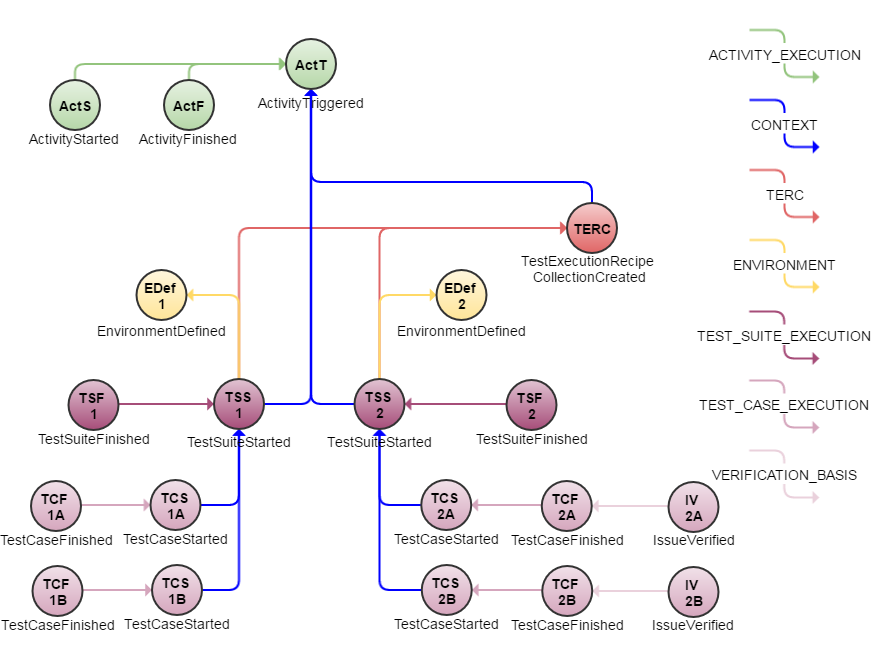
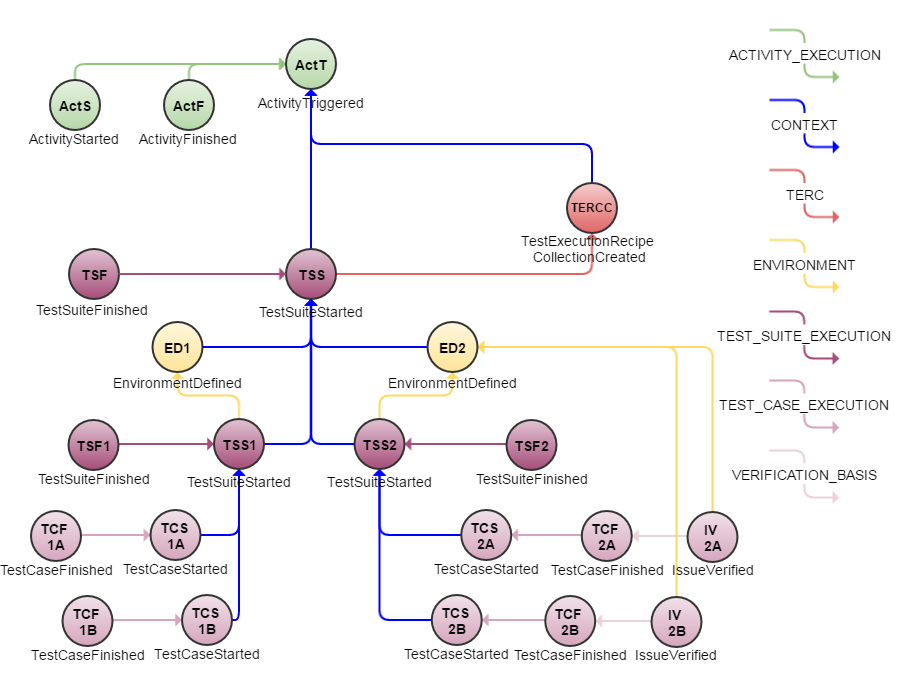
Updated after discussions with Daniel. Added a sequence diagram.

diff --git a/usage-examples/test-execution.md b/usage-examples/test-execution.md
@@ -15,32 +15,46 @@ To understand the example provided here, it is important to explain a few concep
 ### ActT, ActS, ActF
 [EiffelActivityTriggeredEvent](../eiffel-vocabulary/EiffelActivityTriggeredEvent.md), [EiffelActivityStartedEvent](../eiffel-vocabulary/EiffelActivityStartedEvent.md) and [EiffelActivityFinishedEvent](../eiffel-vocabulary/EiffelActivityFinishedEvent.md) are the top level events describing the status of the complete activity execution.
 
-### TERC
+### TERCC
 The [EiffelTestExecutionRecipeCollectionCreatedEvent](../eiffel-vocabulary/EiffelTestExecutionRecipeCollectionCreatedEvent.md) event is sent to provide information about the contents of a test activity.
 
-### EDef1, EDef2
-For each test environment set up and/or created an [EiffelEnvironmentDefinedEvents](../eiffel-vocabulary/EiffelEnvironmentDefinedEvent.md) event SHALL be sent. The environments could be static and thereby reused between a lot of test activities, or they could be created in runtime for every test activity. The latter is the typical case when testing in a cloud environment.
+### TSS
+The [EiffelTestSuiteStartedEvent](../eiffel-vocabulary/EiffelTestSuiteStartedEvent.md) signal that the execution of a set of test cases have started. The test cases defined as recipes in the [EiffelTestExecutionRecipeCollectionCreatedEvent](../eiffel-vocabulary/EiffelTestExecutionRecipeCollectionCreatedEvent.md) can be grouped to an arbitrary number of test suites. There should anyway always be one main test suite encapsulating all test cases in the activity.
+
+### ED1, ED2
+Here we assume the test orchestrator has decided to split the complete set of test cases in two sub test suites, each requiring their own test environment.
+
+For each test environment set up and/or created an [EiffelEnvironmentDefinedEvents](../eiffel-vocabulary/EiffelEnvironmentDefinedEvent.md) event SHALL be sent. The environments could be static and thereby reused between a lot of test activities, or they could be created in runtime for every test activity. The latter is the typical case when testing in a cloud environment. The information needed to set up or create a test environment could be given in the TERCC event.
 
 ### TSS1, TSS2
-The [EiffelTestSuiteStartedEvents](../eiffel-vocabulary/EiffelTestSuiteStartedEvent.md) signal that the execution of a set of test cases have started. There may be several such sets defined as "recipes" in the [EiffelTestExecutionRecipeCollectionCreatedEvent](../eiffel-vocabulary/EiffelTestExecutionRecipeCollectionCreatedEvent.md) event. Each of those sets could have their own constraints on the environment in which they should be executed, defined by the _constraints_ parameter in the _recipe_ object in the [EiffelTestExecutionRecipeCollectionCreatedEvent](../eiffel-vocabulary/EiffelTestExecutionRecipeCollectionCreatedEvent.md). The environment used when executing the test suite SHALL be defined using [EiffelEnvironmentDefinedEvents](../eiffel-vocabulary/EiffelEnvironmentDefinedEvent.md)
+Each sub test suite SHALL have a [EiffelTestSuiteStartedEvent](../eiffel-vocabulary/EiffelTestSuiteStartedEvent.md) sent for it. They should link to the environment in which they are to be executed, and to the main test suite of the activity. If the test orchestrator builds the test suites based on something else than their test environment needs then each test case needs to report the test environment used in their [EiffelTestCaseStartedEvents](../eiffel-vocabulary/EiffelTestCaseStartedEvent.md) instead.
 
-### TCS1A, TCS1B2, TCS2A, TCS2B
-[EiffelTestCaseStartedEvents](../eiffel-vocabulary/EiffelTestCaseStartedEvent.md) declaring that, as part of their respective activities, test cases have been launched. Test cases are normally contained within a test suite, declared by [EiffelTestSuiteStartedEvents](../eiffel-vocabulary/EiffelTestSuiteStartedEvent.md). In this example only a very small number of test cases are executed - in reality, these events tend to be very numerous.
+### TCS1A, TCS1B, TCS2A, TCS2B
+[EiffelTestCaseStartedEvents](../eiffel-vocabulary/EiffelTestCaseStartedEvent.md) declaring that, as part of their respective test suites, test cases have been launched. In this example only a very small number of test cases are executed - in reality, these events tend to be very numerous.
 
 ### TCF1A, TCF1B, TCF2A, TCF2B
 [EiffelTestCaseFinishedEvents](../eiffel-vocabulary/EiffelTestCaseFinishedEvent.md) reporting the verdict of their respective test case executions.
 
 ### TSF1, TSF2
-[EiffelTestSuiteFinishedEvents](../eiffel-vocabulary/EiffelTestSuiteFinishedEvent.md) report that a complete test suite is executed.
+[EiffelTestSuiteFinishedEvents](../eiffel-vocabulary/EiffelTestSuiteFinishedEvent.md) report that the execution of a test suite finished.
+
+### TSF
+[EiffelTestSuiteFinishedEvent](../eiffel-vocabulary/EiffelTestSuiteFinishedEvent.md) reporting that the execution of the main test suite is finished.
 
 ### IV2A, IV2B
-[EiffelIssueVerifiedEvents](../eiffel-vocabulary/EiffelTestCaseFinishedEvent.md) can be used to declare that the execution of a test case has verified a certain issue (e.g. a requirement or a trouble report) successfully or not.
+[EiffelIssueVerifiedEvents](../eiffel-vocabulary/EiffelIssueVerifiedEvent.md) can be used to declare that the execution of a test case has verified a certain issue (e.g. a requirement or a trouble report) successfully or not.
 
 ## Test Activity Execution Implementation
-In the example above an implementation as the following is assumed:
-* A test activity first evaluates what test cases to execute and in which environment to execute them. In a simple test activity both of these values could be hard coded, but in this example we show how Eiffel events can be used to handle dynamic selections of test cases and on demand created test environments. A test management system could be queried to provide the list of test cases together with the constraints on the test environment for those test cases. This information is all included in the [EiffelTestExecutionRecipeCollectionCreatedEvent](../eiffel-vocabulary/EiffelTestExecutionRecipeCollectionCreatedEvent.md).
-* Second, the environment(s) are set up. If a new environment is created for this specific execution of the test activity an [EiffelEnvironmentDefinedEvent](../eiffel-vocabulary/EiffelEnvironmentDefinedEvent.md) is issued. If a previously created environment is used, its corresponding [EiffelEnvironmentDefinedEvent](../eiffel-vocabulary/EiffelEnvironmentDefinedEvent.md) is looked up.
-* Third, the recipes in the [EiffelTestExecutionRecipeCollectionCreatedEvent](../eiffel-vocabulary/EiffelTestExecutionRecipeCollectionCreatedEvent.md) are evaluated and test suites corresponding to each of them are triggered for execution which is described using [EiffelTestSuiteStartedEvents](../eiffel-vocabulary/EiffelTestSuiteStartedEvent.md). Whether the test suites are executed in parallel or in serial is of no interest to the Eiffel protocol. It's merely up to the test executor to handle it in the best way available.
-The execution of each test case is surrounded by [EiffelTestCaseStartedEvents](../eiffel-vocabulary/EiffelTestCaseStartedEvent.md) and [EiffelTestCaseFinishedEvents](../eiffel-vocabulary/EiffelTestCaseFinishedEvent.md). When a complete suite of test cases is executed, a [EiffelTestSuiteFinishedEvent](../eiffel-vocabulary/EiffelTestSuiteFinishedEvent.md) is issued.
-* When all test suites corresponding to the recipes in the [EiffelTestExecutionRecipeCollectionCreatedEvent](../eiffel-vocabulary/EiffelTestExecutionRecipeCollectionCreatedEvent.md) are finished, the test activity is considered finished and an [EiffelActivityFinishedEvent](../eiffel-vocabulary/EiffelActivityFinishedEvent.md) is sent to declare that.
-* If needed, complementing test activities can be performed to verify specific issues. The verdicts of those can then be reported using [EiffelIssueVerifiedEvents](../eiffel-vocabulary/EiffelTestCaseFinishedEvent.md).
+To realize the event graph in this example, a sequence like this needed:
+![alt text](./test-execution-sequence.png "Sequence of Calls and Events of Test Execution Example")
+
+1. A test activity gets triggered by some event or timer. An [EiffelActivityTriggeredEvent](../eiffel-vocabulary/EiffelActivityTriggeredEvent.md) is immediately sent, and when the activity is ready to be executed an [EiffelActivityStartedEvent](../eiffel-vocabulary/EiffelActivityStartedEvent.md). Depending on the CI server used these events might come directly after each other, or if the CI server has an execution queue internally the first event will be sent when the activity is put in the queue and the latter when the execution starts.
+2. A test orchestrator is called to separate the concerns of managing a CI avtivity from the test orchestration. This could of course be performed within the activity orchestrator unless there is a certain need to divide them.
+3. The activity orchestrator listens to TSF events and awaits the main TSF event for the activity being executed.
+4. The test orchestrator evaluates what test cases to execute and in which environment to execute them. In a simple test activity both of these values could be hard coded, but in this example we show how Eiffel events can be used to handle dynamic selections of test cases and on demand created test environments. A test management system could be queried to provide the list of test cases together with the constraints on the test environment for those test cases. This information is all included in a TERC document represented by the [EiffelTestExecutionRecipeCollectionCreatedEvent](../eiffel-vocabulary/EiffelTestExecutionRecipeCollectionCreatedEvent.md). A [EiffelTestSuiteStartedEvent](../eiffel-vocabulary/EiffelTestSuiteStartedEvent.md) referencing the TERCC and ActT events to inform that the actual execution is initiated.
+5. The batches of test case recipes in the TERC are evaluated and test suites are formed based on for example test environment needs. 
+6. For each test suite the needed test environment is provisioned and deployed. If a new test environment is created for this specific test suite an [EiffelEnvironmentDefinedEvent](../eiffel-vocabulary/EiffelEnvironmentDefinedEvent.md) is issued. If a previously created environment is used, its corresponding [EiffelEnvironmentDefinedEvent](../eiffel-vocabulary/EiffelEnvironmentDefinedEvent.md) is looked up. A [EiffelTestSuiteStartedEvent](../eiffel-vocabulary/EiffelTestSuiteStartedEvent.md) for the sub test suite is now sent, referencing the set up environment.
+7. A test executor is called with the environment instance and the list of test cases to execute. The test executor executes the test cases and sends corresponding [EiffelTestCaseStartedEvents](../eiffel-vocabulary/EiffelTestCaseStartedEvent.md) and [EiffelTestCaseFinishedEvents](../eiffel-vocabulary/EiffelTestCaseFinishedEvent.md) for each of them. Whether the test suites are executed in parallel or in serial is of no interest to the Eiffel protocol. It's merely up to the test executor to handle it in the best way available.
+8. The test orchestrator listens to TCF events and when all are recieved it send a [EiffelTestSuiteFinishedEvent](../eiffel-vocabulary/EiffelTestSuiteFinishedEvent.md). When done it sends a [EiffelTestSuiteFinishedEvent](../eiffel-vocabulary/EiffelTestSuiteFinishedEvent.md) corresponding to the main test suite in this test activity.
+9. The used test environment is released.
+10. When the main test suite has finished, the complete activity is finished and an [EiffelActivityFinishedEvent](../eiffel-vocabulary/EiffelActivityFinishedEvent.md) is sent to declare that.
